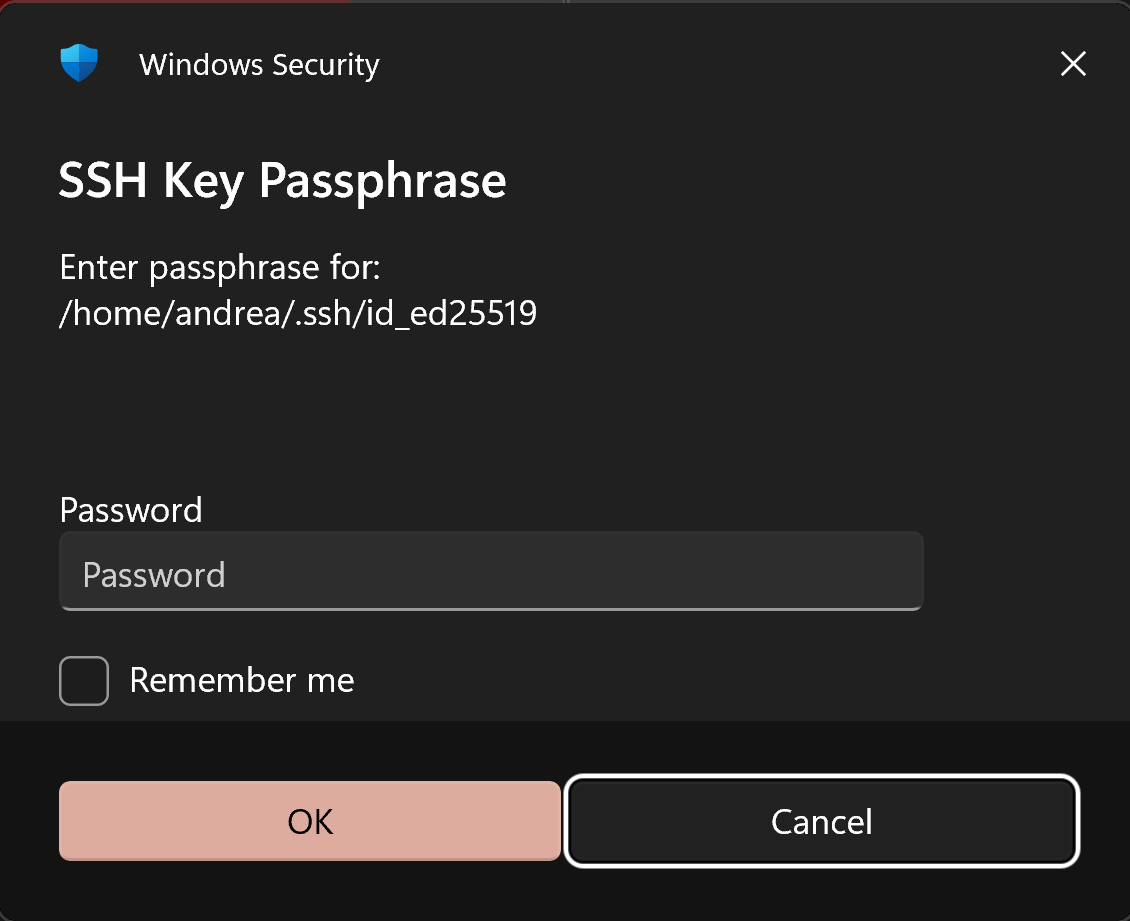
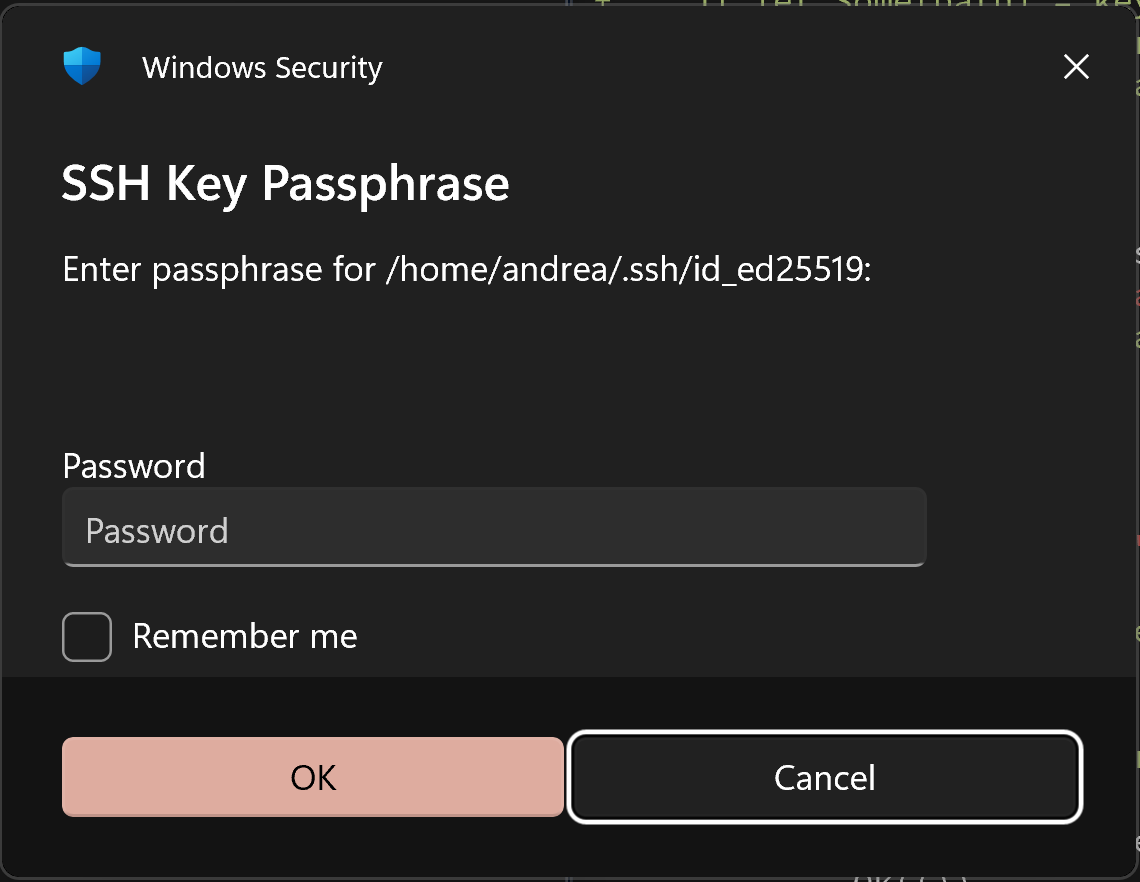
feat: show the original prompt in the dialog

diff --git a/src/main.rs b/src/main.rs
@@ -34,29 +34,23 @@ fn extract_key_path(prompt: &str) -> Option<&str> {
 }
 
 fn handle_askpass(prompt: &str) -> Result<()> {
-    let key_path = match extract_key_path(prompt) {
-        Some(path) => path,
-        None => {
-            // If we can't parse the prompt, just show it as-is in the dialog
-            eprintln!("Warning: Could not parse key path from prompt");
-            prompt
-        }
-    };
+    let key_path = extract_key_path(prompt);
 
     // Try to get cached credential
-    if let Some(password) = credential::get_credential(key_path)? {
-        print!("{}", password);
-        return Ok(());
-    }
+    if let Some(path) = key_path
+        && let Some(password) = credential::get_credential(path)? {
+            print!("{}", password);
+            return Ok(());
+        }
 
     // Prompt user for password
-    match dialog::prompt_password(key_path)? {
+    match dialog::prompt_password(prompt)? {
         Some(result) => {
             if result.save
-                && let Err(e) = credential::store_credential(key_path, &result.password)
-            {
-                eprintln!("Warning: Failed to save credential: {}", e);
-            }
+                && let Some(path) = key_path
+                    && let Err(e) = credential::store_credential(path, &result.password) {
+                        eprintln!("Warning: Failed to save credential: {}", e);
+                    }
             print!("{}", result.password);
             Ok(())
         }

diff --git a/src/dialog.rs b/src/dialog.rs
@@ -6,7 +6,7 @@ pub struct PromptResult {
     pub save: bool,
 }
 
-pub fn prompt_password(key_path: &str) -> Result<Option<PromptResult>> {
+pub fn prompt_password(prompt: &str) -> Result<Option<PromptResult>> {
     // Use Windows CredUIPromptForWindowsCredentialsW via PowerShell
     // This newer API supports both save checkbox and pre-filled username
     let script = format!(
@@ -132,7 +132,7 @@ public class CredUI {{
 "@
 
 $save = $false
-$password = [CredUI]::Prompt("SSH Key Passphrase", "Enter passphrase for:`n{key_path}", "{username}", [ref]$save)
+$password = [CredUI]::Prompt("SSH Key Passphrase", "{prompt}", "", [ref]$save)
 if ($password -ne $null) {{
     # Output format: SAVE|password or NOSAVE|password
     if ($save) {{
@@ -142,8 +142,7 @@ if ($password -ne $null) {{
     }}
 }}
 "#,
-        key_path = key_path.replace("`", "``").replace("'", "''"),
-        username = ""
+        prompt = prompt.replace("`", "``").replace("'", "''")
     );
 
     let output = Command::new("powershell.exe")
